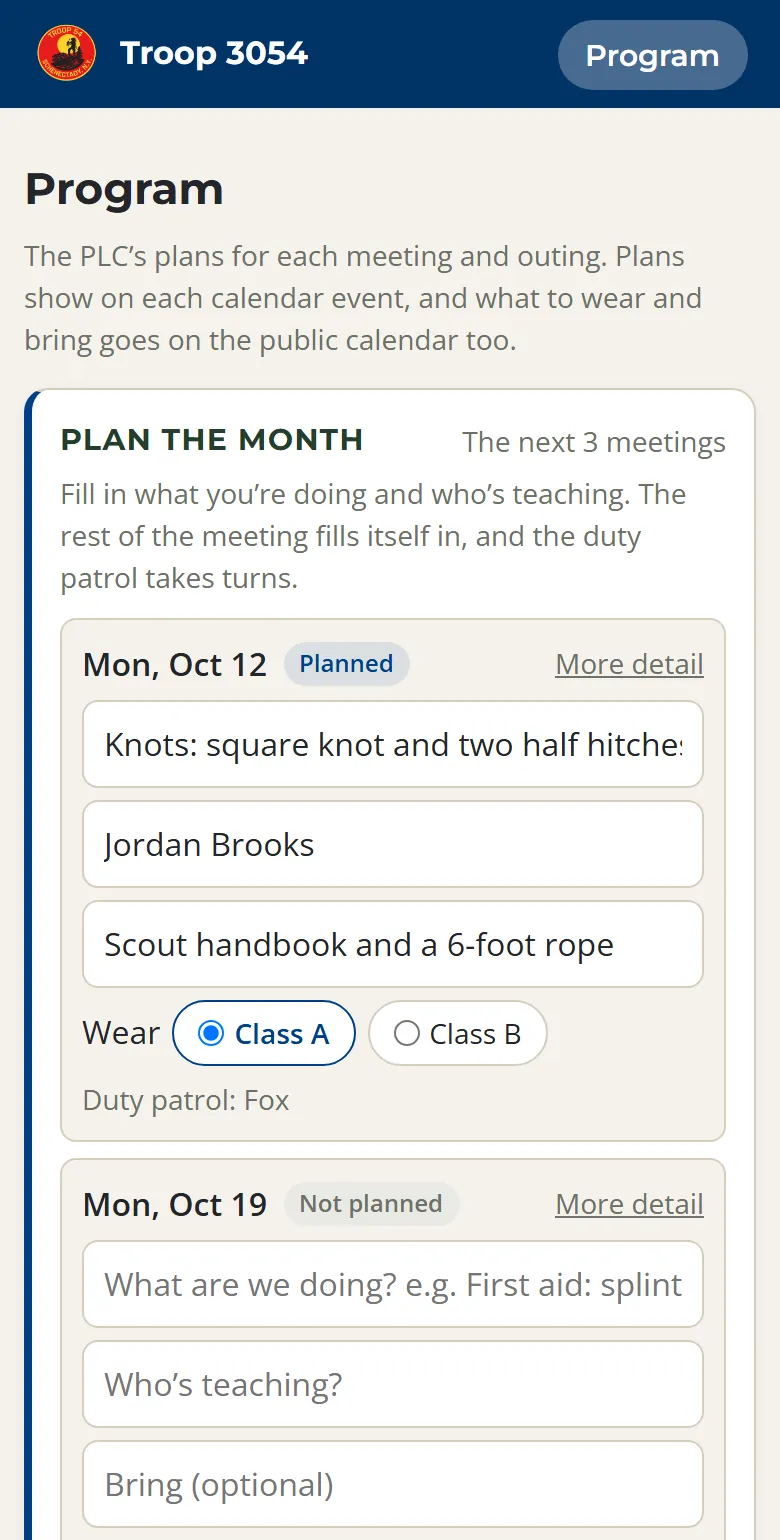
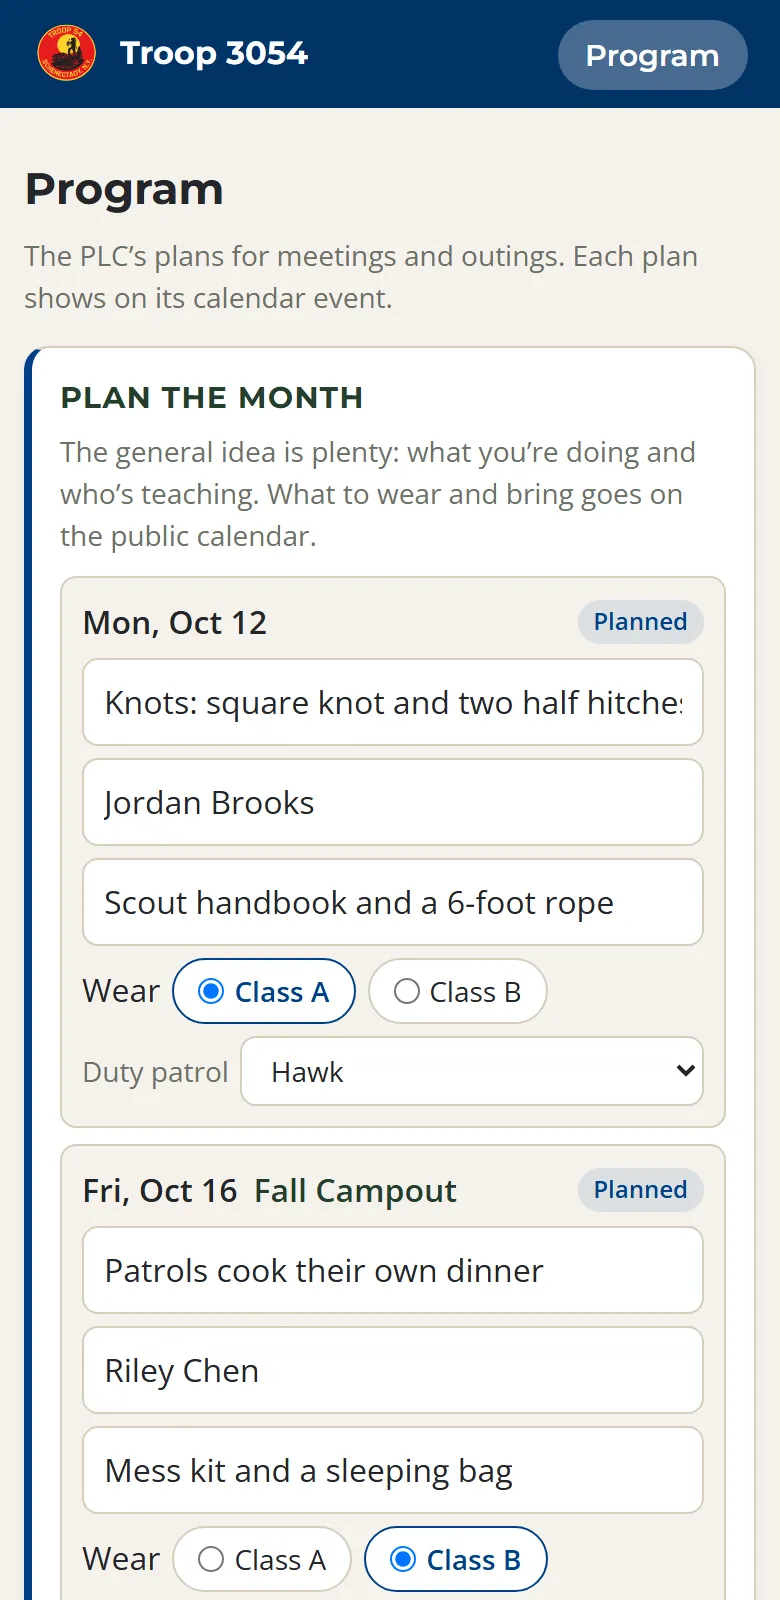
App guide: a plan is the general idea
What we're doing, who's teaching or leading, wear and bring; outings in Plan
the month; the same four boxes on an event; leaders' 8-week view. New
screenshots from the made-up demo troop.

diff --git a/app.html b/app.html
@@ -368,13 +368,13 @@
           <div class="app-step">
             <div>
               <h3>What to wear and bring</h3>
-              <p>When the Scouts have planned a meeting, its <strong>Plan</strong> shows the uniform (Class A or Class B), what to bring, and how the meeting will run. The uniform and what to bring also show on the <a href="calendar.html">public calendar</a>.</p>
+              <p>When the Scouts have planned a meeting, its <strong>Plan</strong> shows the uniform (Class A or Class B), what to bring, what they're doing, and who's teaching. The uniform and what to bring also show on the <a href="calendar.html">public calendar</a>.</p>
               <h3>Add it to your calendar</h3>
               <p>Open <strong>Details &amp; add to calendar</strong> and tap <strong>Google Calendar</strong> or <strong>Apple / Outlook</strong>. To get every troop event in your phone's calendar at once, tap <strong>Subscribe</strong> on our <a href="calendar.html">calendar page</a>.</p>
             </div>
             <figure class="app-shot">
-              <img src="images/app-guide/meeting-plan.webp" alt="A troop meeting's Plan showing Wear Class A, Bring Scout handbook and a 6-foot rope, and the run of the meeting with a Scout's name on each part" width="390" height="700" loading="lazy">
-              <figcaption>A meeting's plan: what to wear, what to bring, who leads each part.</figcaption>
+              <img src="images/app-guide/meeting-plan.webp" alt="A troop meeting's Plan showing Wear Class A, Bring Scout handbook and a 6-foot rope, the focus on knots, who's teaching, and the duty patrol" width="390" height="500" loading="lazy">
+              <figcaption>A meeting's plan: what to wear and bring, what we're doing, and who's teaching.</figcaption>
             </figure>
           </div>
           <div class="app-step">
@@ -461,17 +461,18 @@
           <div class="app-step">
             <div>
               <h3>Plan the month</h3>
-              <p>Tap <strong>Program</strong> at the top (it's in the <strong>Leaders</strong> menu if you have other leader pages too). It opens on <strong>Plan the month</strong>: the next five meetings, with four boxes each. It works best at the PLC's monthly meeting, with one person typing while everyone decides.</p>
+              <p>Tap <strong>Program</strong> at the top (it's in the <strong>Leaders</strong> menu if you have other leader pages too). It opens on <strong>Plan the month</strong>: the next five meetings and any outings in between, with four boxes each. It works best at the PLC's monthly meeting, with one person typing while everyone decides.</p>
               <ol>
                 <li><strong>What are we doing?</strong> The skill or theme for the night. This is the only box you need.</li>
-                <li><strong>Who's teaching?</strong> The Scout who leads the skill.</li>
+                <li><strong>Who's teaching?</strong> The Scout who leads the skill. For an outing, it's who's leading.</li>
                 <li><strong>Bring</strong> and <strong>Wear</strong> (Class A or Class B), if you know them.</li>
                 <li>Tap <strong>Save the month</strong>.</li>
               </ol>
-              <p>The rest fills itself in. Each meeting gets Scouting America's standard troop meeting plan, and the duty patrol takes turns. Families see what to wear and bring right away. To change the times or put a name on every part, tap <strong>More detail</strong>.</p>
+              <p>That's the whole plan: the general idea, not a minute-by-minute schedule. The duty patrol takes turns on its own, and you can pick a different one if you need to. Families see what to wear and bring right away.</p>
+              <p>To plan or change just one meeting or outing, open it and tap <strong>Plan this meeting</strong> or <strong>Edit plan</strong>. It's the same four boxes.</p>
             </div>
             <figure class="app-shot">
-              <img src="images/app-guide/plan-month.webp" alt="Plan the month on the Program page: each meeting has boxes for what we're doing, who's teaching, and what to bring, Class A and Class B buttons, and the duty patrol" width="390" height="770" loading="lazy">
+              <img src="images/app-guide/plan-month.webp" alt="Plan the month on the Program page: a meeting and a campout, each with boxes for what we're doing, who's teaching or leading, and what to bring, Class A and Class B buttons, and the duty patrol" width="390" height="800" loading="lazy">
               <figcaption>Plan the month: four boxes per meeting.</figcaption>
             </figure>
           </div>
@@ -481,18 +482,18 @@
               <p>Under <strong>How did they go?</strong> on the same page, write one line for each meeting you planned: how it went, and what you'd change. Tap <strong>Save reviews</strong>. The PLC reads these when planning the next month.</p>
             </div>
             <figure class="app-shot">
-              <img src="images/app-guide/review-month.webp" alt="How did they go? with one box for last week's meeting and a Save reviews button" width="390" height="330" loading="lazy">
+              <img src="images/app-guide/review-month.webp" alt="How did they go? with one box for last week's meeting and a Save reviews button" width="390" height="310" loading="lazy">
               <figcaption>One line per meeting.</figcaption>
             </figure>
           </div>
           <div class="app-step">
             <div>
               <h3>The rest of the Program page</h3>
-              <p>Below that are the next 8 weeks of meetings and outings, which ones are planned and how far ahead, and any events still missing a time or place. Adult leaders see this list too, so they know what the PLC needs from them.</p>
+              <p>Anything still missing a time or a place shows at the bottom, so the PLC can fill it in. Leaders also see a summary and the next 8 weeks of meetings and outings: which ones are planned, how far ahead, and who's teaching, so they know what the PLC needs from them.</p>
             </div>
             <figure class="app-shot">
-              <img src="images/app-guide/program.webp" alt="The Program page's count of planned meetings and the list of the next 8 weeks, each marked Planned or Not planned" width="390" height="665" loading="lazy">
-              <figcaption>The next 8 weeks at a glance.</figcaption>
+              <img src="images/app-guide/program.webp" alt="The leaders' view of the Program page: how many of the next meetings are planned, and the next 8 weeks, each marked Planned or Not planned" width="390" height="740" loading="lazy">
+              <figcaption>What leaders see: the next 8 weeks at a glance.</figcaption>
             </figure>
           </div>
         </section>
